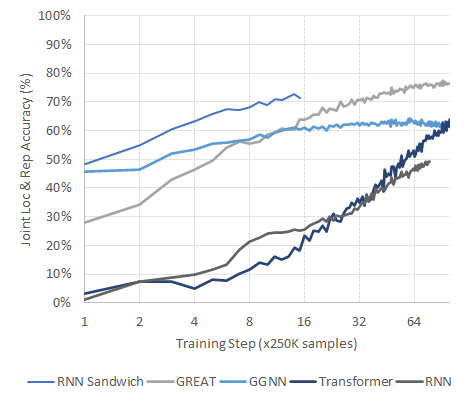
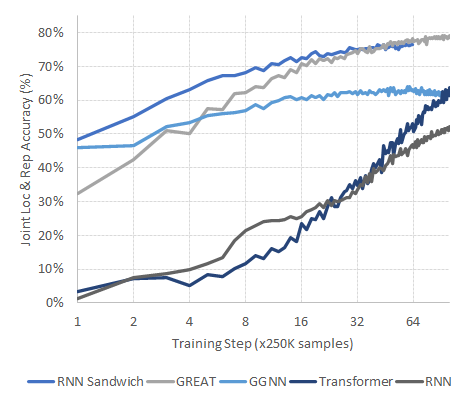
Update code for new dataset, add some results

diff --git a/data/data_loader.py b/data/data_loader.py
@@ -5,7 +5,25 @@ import json
 
 import tensorflow as tf
 
+
+# Edge types to be used in the models, and their (renumbered) indices -- the data files contain
+# reserved indices for several edge types that do not occur for this problem (e.g. UNSPECIFIED)
+EDGE_TYPES = {
+	'enum_CFG_NEXT': 0,
+	'enum_LAST_READ': 1,
+	'enum_LAST_WRITE': 2,
+	'enum_COMPUTED_FROM': 3,
+	'enum_RETURNS_TO': 4,
+	'enum_FORMAL_ARG_NAME': 5,
+	'enum_FIELD': 6,
+	'enum_SYNTAX': 7,
+	'enum_NEXT_SYNTAX': 8,
+	'enum_LAST_LEXICAL_USE': 9,
+	'enum_CALLS': 10
+}
+
 class DataLoader():
+	
 	def __init__(self, data_path, data_config, vocabulary):
 		self.data_path = data_path
 		self.config = data_config
@@ -13,12 +31,16 @@ class DataLoader():
 	
 	def batcher(self, mode="train"):
 		data_path = self.get_data_path(mode)
-		file_paths = [os.path.join(data_path, f) for f in os.listdir(data_path)]
+		dataset = tf.data.Dataset.list_files(data_path + '/*.txt*', shuffle=mode != 'eval', seed=42)
+		dataset = dataset.interleave(lambda x: tf.data.TextLineDataset(x).shuffle(buffer_size=1000) if mode == 'train' else tf.data.TextLineDataset(x), cycle_length=4, block_length=16)
+		dataset = dataset.prefetch(1)
 		if mode == "train":
-			random.shuffle(file_paths)
-		ds = tf.data.Dataset.from_generator(self.to_batch, output_types=(tf.dtypes.int32, tf.dtypes.int32, tf.dtypes.int32, tf.dtypes.int32, tf.dtypes.int32), args=(file_paths, mode))
-		if mode == "train":
-			ds = ds.repeat()
+			dataset = dataset.repeat()
+		
+		# To batch similarly-sized sequences together, we need buffering support, which TF doesn't really have.
+		# Instead, turn the dataset into a generator, run it through our own buffering function, and return a
+		# dataset of batches from that function. Could probably be more efficient, PRs welcome :)
+		ds = tf.data.Dataset.from_generator(lambda mode: self.to_batch(dataset, mode), output_types=(tf.dtypes.int32, tf.dtypes.int32, tf.dtypes.int32, tf.dtypes.int32, tf.dtypes.int32), args=(mode,))
 		ds = ds.prefetch(1)
 		return ds
 	
@@ -36,7 +58,7 @@ class DataLoader():
 	def to_sample(self, json_data):
 		def parse_edges(edges):
 			# Reorder edges to [edge type, source, target] and double edge type index to allow reverse edges
-			relations = [[2*rel[2], rel[0], rel[1]] for rel in edges]
+			relations = [[2*EDGE_TYPES[rel[3]], rel[0], rel[1]] for rel in edges if rel[3] in EDGE_TYPES]  # Note: we reindex edge types to be 0-based and filter unsupported edge types (useful for ablations)
 			relations += [[rel[0] + 1, rel[2], rel[1]] for rel in relations]  # Add reverse edges
 			return relations
 		
@@ -48,7 +70,7 @@ class DataLoader():
 		return (tokens, edges, error_location, repair_targets, repair_candidates)
 
 	# Creates Tensor batches from a set of files
-	def to_batch(self, file_paths, mode):
+	def to_batch(self, sample_generator, mode):
 		if isinstance(mode, bytes): mode = mode.decode('utf-8')
 		def sample_len(sample):
 			return len(sample[0])
@@ -90,21 +112,14 @@ class DataLoader():
 			
 			return buffer, (token_tensor, edge_tensor, error_location, repair_targets, repair_candidates)
 	
-		# Simple utility to flatten files into a stream of samples
-		def sample_gen():
-			for file_path in file_paths:
-				with open(file_path) as f:
-					json_data = f.read()
-				data = json.loads(json_data)
-				for d in data:
-					sample = self.to_sample(d)
-					if sample_len(sample) <= self.config['max_sequence_length']:
-						yield sample
-		
 		# Keep samples in a buffer that is (ideally) much larger than the batch size to allow efficient batching
 		buffer = []
 		num_samples = 0
-		for sample in sample_gen():
+		for line in sample_generator:
+			json_sample = json.loads(line.numpy())
+			sample = self.to_sample(json_sample)
+			if sample_len(sample) > self.config['max_sequence_length']:
+				continue
 			buffer.append(sample)
 			num_samples += 1
 			if mode == 'dev' and num_samples >= self.config['max_valid_samples']:

diff --git a/running/run_model.py b/running/run_model.py
@@ -104,7 +104,9 @@ def evaluate(data, config, model, is_heldout=True):  # Similar to train, just wi
 		print("Testing pre-trained model on full eval data")
 	
 	losses, accs, counts = get_metrics()
+	mbs = 0
 	for batch in data.batcher(mode='dev' if is_heldout else 'eval'):
+		mbs += 1
 		tokens, edges, error_loc, repair_targets, repair_candidates = batch		
 		token_mask = tf.clip_by_value(tf.reduce_sum(tokens, -1), 0, 1)
 		
@@ -114,6 +116,10 @@ def evaluate(data, config, model, is_heldout=True):  # Similar to train, just wi
 		update_metrics(losses, accs, counts, token_mask, ls, acs, num_buggy)
 		if is_heldout and counts[0].result() > config['data']['max_valid_samples']:
 			break
+		if not is_heldout and mbs % config["training"]["print_freq"] == 0:
+			avg_losses = ["{0:.3f}".format(l.result().numpy()) for l in losses]
+			avg_accs = ["{0:.2%}".format(a.result().numpy()) for a in accs]
+			print("Testing progress: MB: {0}, seqs: {1:,}, tokens: {2:,}, loss: {3}, accs: {4}".format(mbs, counts[0].result().numpy(), counts[1].result().numpy(), ", ".join(avg_losses), ", ".join(avg_accs)))
 
 	avg_accs = [a.result().numpy() for a in accs]
 	avg_accs_str = ", ".join(["{0:.2%}".format(a) for a in avg_accs])

diff --git a/running/checkpoint_tracker.py b/running/checkpoint_tracker.py
@@ -20,6 +20,7 @@ class Tracker(object):
 					self.log.append((l[0], scores))
 			if best_model:
 				best = max(enumerate(self.log), key=lambda e: e[1][1][-1])[0]  # [-1] simply pulls the last accuracy value, which is the joint loc & rep accuracy
+				print("Restoring top model from step:", best + 1)
 				status = self.ckpt.restore(self.manager.checkpoints[best])
 			else:
 				status = self.ckpt.restore(self.manager.latest_checkpoint)

diff --git a/README.md b/README.md
@@ -6,7 +6,7 @@ This repository will also serve as the [*public benchmark*](#benchmark) for any 
 ## Quick Start
 The modeling code is written in Python (3.6+) and uses Tensorflow (recommended 2.2.x+). For a quick setup, run `pip install -r requirements.txt`.
 
-To run training, first clone the [data repository](https://github.com/google-research-datasets/great) and note its location (lets call it `*data_dir*`). Then, from the main directory of this repository, run: `python running/run_model.py *data_dir* vocab.txt config.yml`, to train the model configuration specified in `config.yml`, periodically writing checkpoints (to `models/` and evaluation results (to `log.txt`). Both output paths can be optionally set with `-m` and `-l` respectively.
+To run training, first clone the [data repository](https://github.com/google-research-datasets/great) (I recommend cloning with `--depth=1` to save disk-space) and note its location (lets call it `*data_dir*`). Then, from the main directory of this repository, run: `python running/run_model.py *data_dir* vocab.txt config.yml`, to train the model configuration specified in `config.yml`, periodically writing checkpoints (to `models/` and evaluation results (to `log.txt`). Both output paths can be optionally set with `-m` and `-l` respectively.
 
 To customize the model configuration, you can change both the hyper-parameters for the various model types available (transformer, GREAT, GGNN, RNN) in `config.yml`, and the overall model architecture itself under `model: configuration`. For instance, to train the RNN Sandwich architecture from our paper, set the RNN and GGNN layers to reasonable values (e.g. RNN to  2 layers and the GGNN's `time_steps` to \[3, 1\] layers as in the paper) and specify the model configuration: `rnn ggnn rnn ggnn rnn`.
 
@@ -39,24 +39,27 @@ Representative architectures from each model family have been trained under the 
 - Note: RNN Sandwich models are still being benchmarked.
 
 *All accuracies are reported as: joint localization & repair accuracy (the key indicator), bug-free classification accuracy, (bug) localization accuracy, repair accuracy*
-| <sub>Model (category and variant)</sub> | <sub>Top Dev Accuracies </sub> | <sub>Test Accuracies</sub> | <sub>Run Details: top acc. step, time per step, #paramaters </sub> |<sub>Hyper-parameters: batch size, learning rate, model shape, etc.</sub> |
-|---|---|---|---|---|
+| <sub>Model (category and variant)</sub> | <sub>Test Accuracies</sub> | <sub>Run details: top dev step, time per step, #paramaters </sub> |<sub>Hyper-parameters: batch size, learning rate, model shape, etc.</sub> |
+|---|---|---|---|
 |<sub>__RNNs__</sub>
-|<sub>2L, 512h</sub>    |<sub>W.I.P.</sub> |<sub>W.I.P.</sub> |<sub>.., .., 9.68M</sub> |<sub>BS: 12.5K, LR: 1e-4, dropout 0.1</sub> |
+|<sub>2L, 512h</sub>    |<sub>52.18% (82.57%, 63.56%, 63.22%)</sub> |<sub>99, 3298s, 9.68M</sub> |<sub>BS: 12.5K, LR: 1e-4, dropout 0.1</sub> |
 |<sub>__GGNNs__</sub>
-|<sub>8L, 512h</sub>    |<sub>64.08% (90.15%, 78.29%, 75.15%)</sub> |<sub>W.I.P.</sub> |<sub>59, 2170s, 41.19M</sub> |<sub>BS: 12.5K, LR: 1e-4, steps: [3, 1, 3, 1], residuals: [0: 1+3, 1: 3}], dropout: 0.1</sub> |
+|<sub>8L, 512h</sub>    |<sub>65.38% (90.28%, 79.64%, 75.76%)</sub> |<sub>59, 2170s, 41.19M</sub> |<sub>BS: 12.5K, LR: 1e-4, steps: [3, 1, 3, 1], residuals: [0: 1+3, 1: 3}], dropout: 0.1</sub> |
 |<sub>__Sandwiches__</sub>
-|<sub>(1R 4G 1R 4G 1R), 512h</sub> |<sub>W.I.P.</sub> |<sub>W.I.P.</sub> |<sub>.., .., 43.95M</sub> |<sub>BS: 12.5K, LR: 1e-4, steps: [3, 1], residuals: [0: 1], dropout: 0.1</sub> |
+|<sub>(1R 4G 1R 4G 1R), 512h</sub> |<sub>78.29%<sup>\*</sup> (88.82%, 86.50%, 85.29%)</sub> |<sub>.., .., 43.95M</sub> |<sub>BS: 12.5K, LR: 1e-4, steps: [3, 1], residuals: [0: 1], dropout: 0.1</sub> |
 |<sub>__Transformers__</sub>
-|<sub>6L, 512h/a</sub>  |<sub>63.69% (91.20%, 71.24%, 75.11%)</sub> |<sub>W.I.P.</sub> |<sub>100, __1430s__, 26.22M</sub> |<sub>BS: 12.5K, LR: 1e-4, heads: 8, FF: 2048, dropout 0.1</sub> |
+|<sub>6L, 512h/a</sub>  |<sub>66.05% (91.70%, 73.39%, 76.79%)</sub> |<sub>100, 1430s, 26.22M</sub> |<sub>BS: 12.5K, LR: 1e-4, heads: 8, FF: 2048, dropout 0.1</sub> |
 |<sub>__GREAT__</sub>
-|<sub>6L, 512h/a</sub>  |<sub>__77.29%__ (89.23%, 85.20%, 85.34%)</sub> |<sub>W.I.P.</sub> |<sub>91, 1534s, 26.23M</sub> |<sub>BS: 12.5K, LR: 1e-4, heads: 8, FF: 2048, bias_dim: 64, dropout 0.1</sub> |
+|<sub>6L, 512h/a</sub>  |<sub>78.21% (88.98%, 86.14%, 85.85%)</sub> |<sub>91, 1534s, 26.23M</sub> |<sub>BS: 12.5K, LR: 1e-4, heads: 8, FF: 2048, bias_dim: 64, dropout 0.1</sub> |
+|<sub>10L, 512h/a</sub>  |<sub>__80.35%__ (89.72%, 87.61%, 87.41%)</sub> |<sub>100, 1957s, 38.83M</sub> |<sub>BS: 10.0K, LR: 1e-4, heads: 8, FF: 2048, bias_dim: 64, dropout 0.1</sub> |
+
+<sup>\*</sup>Tentative result at step 59; the model is not fully done training yet.
 
 Here's a plot of the learning curves (in terms of heldout loc+rep accuracy) of the various models, which closely matches their trajectories in the paper:
 
 ![benchmarks](Benchmarks.png)
 
-<sub>Note that the RNN and RNN Sandwich models are	 still training; also note that the parameter counts are rather unbalanced, which explains the slightly better performance of RNN Sandwich vs. GREAT.</sub>
+<sub>Note that the RNN Sandwich models is not yet done training.</sub>
 
 ### Configuration
 The following parameters ought to be held fixed for all models, most of which are set correctly by default in config.yml:
@@ -75,7 +78,6 @@ The following parameters ought to be held fixed for all models, most of which ar
 
 The following results and variables should be reported for each run:
 
-- The highest *joint localization & repair* accuracy reached in 100 steps (the key metric), also reporting the corresponding no-bug prediction accuracy (indicates false alarm rate), bug localization accuracy, and bug repair accuracy.
-- The same accuracies for the full 'eval' (test) dataset.
+- The highest *joint localization & repair* accuracy reached in 100 steps (the key metric) on the full 'eval' dataset, using the model that performed highest in this metric on the heldout data at training time. For completeness, please also report the corresponding no-bug prediction accuracy (indicates false alarm rate), bug localization accuracy, and bug repair accuracy (between parentheses).
 - *Details pertaining to the run*: the specific step at which that accuracy was achieved, the time taken per step, and the total number of parameters used by the model (printed at the start of training).
 - The *hyper-parameters for this model*: at least, the maximum batch size in terms of total tokens (batchers are grouped by similar sample size for efficiency -- users are encouraged to use the default (12,500) for comparability), the learning rate, and any details pertaining to the model architecture (new innovations, with paper, are encouraged!) and its dimensions.
